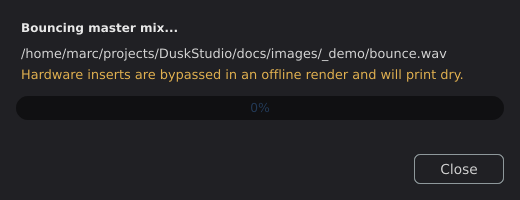
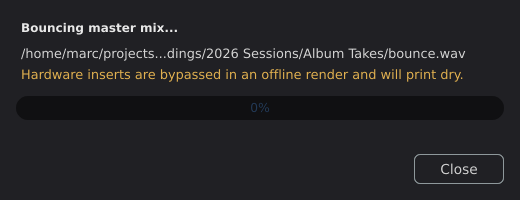
fix(bounce): keep the written path readable in the dialog
The dialog's status line is one label wide and the path routinely is not. Tail
truncation dropped the file name off the right-hand edge, which is the part the
user was looking for, and nothing else in the dialog could reach it.

The path is now shortened in the middle, so both the leading directories and
the file name survive, with the whole path on the label's tooltip and a Copy
path button beside Close once a file exists. The same shortening covers the
progress state, which showed the destination the same way.

Copy path is added with addChildComponent: addAndMakeVisible would show it
during the render, before there is a written file whose path is worth copying.

Closes #551

Changed region(s): [[0.2769, 0.24, 0.8923, 0.3]]

diff --git a/src/ui/BounceDialog.cpp b/src/ui/BounceDialog.cpp
@@ -4,6 +4,23 @@
 
 namespace duskstudio
 {
+namespace
+{
+const juce::Colour kButtonBackground { 0xff202024 };
+
+// The label is one line and the path is routinely longer than it. Tail
+// truncation hides the file name, which is the part the user came for, so keep
+// both ends and drop the middle. The whole path stays reachable through the
+// tooltip and the Copy path button.
+std::string elideMiddle (const std::string& path, std::size_t budget = 64)
+{
+    if (path.size() <= budget) return path;
+    const std::size_t tail = budget * 2 / 3;
+    const std::size_t head = budget - tail - 3;
+    return path.substr (0, head) + "..." + path.substr (path.size() - tail);
+}
+} // namespace
+
 BounceDialog::BounceDialog (AudioEngine& e,
                               Session& s,
                               const juce::File& f,
@@ -33,7 +50,11 @@ BounceDialog::BounceDialog (AudioEngine& e,
 
     statusLabel.setJustificationType (juce::Justification::centredLeft);
     statusLabel.setColour (juce::Label::textColourId, juce::Colours::lightgrey);
-    statusLabel.setText (outputFile.getFullPathName(), juce::dontSendNotification);
+    {
+        const auto full = outputFile.getFullPathName().toStdString();
+        statusLabel.setText (elideMiddle (full), juce::dontSendNotification);
+        statusLabel.setTooltip (full);
+    }
     addAndMakeVisible (statusLabel);
 
     // Offline renders drive the engine detached from the audio device, so an
@@ -66,7 +87,7 @@ BounceDialog::BounceDialog (AudioEngine& e,
 
     auto styleButton = [] (juce::TextButton& b)
     {
-        b.setColour (juce::TextButton::buttonColourId, juce::Colour (0xff202024));
+        b.setColour (juce::TextButton::buttonColourId, kButtonBackground);
         b.setColour (juce::TextButton::textColourOffId, juce::Colour (0xffd0d0d0));
     };
     styleButton (cancelButton);
@@ -74,6 +95,18 @@ BounceDialog::BounceDialog (AudioEngine& e,
     closeButton.setVisible (false);  // shown after the render finishes
     cancelButton.onClick = [this] { closeDialog(); };
     closeButton.onClick  = [this] { closeDialog(); };
+    styleButton (copyPathButton);
+    copyPathButton.setTooltip ("Copy the full path to the clipboard.");
+    copyPathButton.onClick = [this]
+    {
+        const auto full = renderMode == BounceEngine::Mode::Stems
+                            ? outputFile.getParentDirectory().getFullPathName()
+                            : outputFile.getFullPathName();
+        juce::SystemClipboard::copyTextToClipboard (full);
+    };
+    // addChildComponent, not addAndMakeVisible: the latter would show it during
+    // the render, before there is a written file whose path is worth copying.
+    addChildComponent (copyPathButton);
     addAndMakeVisible (cancelButton);
     addAndMakeVisible (closeButton);
 
@@ -119,7 +152,7 @@ BounceDialog::~BounceDialog()
 
 void BounceDialog::paint (juce::Graphics& g)
 {
-    g.fillAll (juce::Colour (0xff202024));
+    g.fillAll (kButtonBackground);
 }
 
 void BounceDialog::resized()
@@ -140,6 +173,8 @@ void BounceDialog::resized()
     auto buttons = area.removeFromBottom (30);
     cancelButton.setBounds (buttons.removeFromRight (90));
     closeButton.setBounds  (cancelButton.getBounds());
+    buttons.removeFromRight (8);
+    copyPathButton.setBounds (buttons.removeFromRight (100));
 }
 
 void BounceDialog::timerCallback()
@@ -187,15 +222,21 @@ void BounceDialog::finalizeIfStopped()
         if (renderMode == BounceEngine::Mode::Stems)
         {
             const int total = bounceEngine->getTotalStemsToRender();
+            const auto dir = outputFile.getParentDirectory().getFullPathName().toStdString();
             statusLabel.setText ("Wrote " + juce::String (total) + " stem"
                                   + juce::String (total == 1 ? "" : "s")
-                                  + " to " + outputFile.getParentDirectory().getFullPathName(),
+                                  + " to " + elideMiddle (dir),
                                   juce::dontSendNotification);
+            statusLabel.setTooltip (dir);
+            copyPathButton.setVisible (true);
         }
         else
         {
-            statusLabel.setText ("Wrote " + outputFile.getFullPathName(),
+            const auto full = outputFile.getFullPathName().toStdString();
+            statusLabel.setText ("Wrote " + elideMiddle (full),
                                   juce::dontSendNotification);
+            statusLabel.setTooltip (full);
+            copyPathButton.setVisible (true);
         }
         progressValue = 1.0;
         progressBar.repaint();

diff --git a/src/ui/ScreenshotCapture.cpp b/src/ui/ScreenshotCapture.cpp
@@ -411,7 +411,13 @@ void MainComponent::captureScreenshots (const juce::File& outDir)
         // temp file; snapshot the progress panel immediately, then it cancels
         // on destruction. Done last so the offline-render device detach can't
         // disturb earlier snapshots.
-        auto target = outDir.getChildFile ("_demo").getChildFile ("bounce.wav");
+        // Deliberately deep: the dialog's one-line status is where a long path
+        // used to lose its file name off the right-hand edge.
+        auto target = outDir.getChildFile ("_demo")
+                            .getChildFile ("Recordings")
+                            .getChildFile ("2026 Sessions")
+                            .getChildFile ("Album Takes")
+                            .getChildFile ("bounce.wav");
         BounceDialog bd (engine, session, target,
                          BounceEngine::Mode::MasterMix);
         modalShot (bd, 520, 200, "qg-07-bounce-dialog.png", 200);

diff --git a/src/ui/BounceDialog.h b/src/ui/BounceDialog.h
@@ -77,7 +77,10 @@ private:
     juce::Label       hwWarnLabel;
     juce::ProgressBar progressBar;
     juce::TextButton  cancelButton { "Cancel" };
-    juce::TextButton  closeButton  { "Close" };
+    // Declared together so the copy action costs the header no new framework
+    // name; the coupling ratchet counts occurrences, not members.
+    juce::TextButton  closeButton    { "Close" },
+                      copyPathButton { "Copy path" };
 
     double progressValue = 0.0;  // bound to ProgressBar
     bool   finished      = false;

diff --git a/MANUAL.md b/MANUAL.md
@@ -1890,6 +1890,7 @@ To export your finished mix as a stereo audio file:
 1. From any stage, choose **File → Bounce…** (or **Cmd/Ctrl+B**).
 2. A file browser opens at the session folder; pick or rename the destination WAV and confirm.
 3. A progress dialog renders the project offline. **Cancel** stops the render.
+4. When it finishes the dialog names the file it wrote. Long paths are shortened in the middle so the file name stays readable; hover the line for the whole path, or use **Copy path** to put it on the clipboard.
 
 The output is **stereo 24-bit WAV at the session sample rate** by default (or a 320 kbps MP3 if you name the file `.mp3`), with a fixed 5-second tail so reverb and compression ringouts decay naturally.
 
